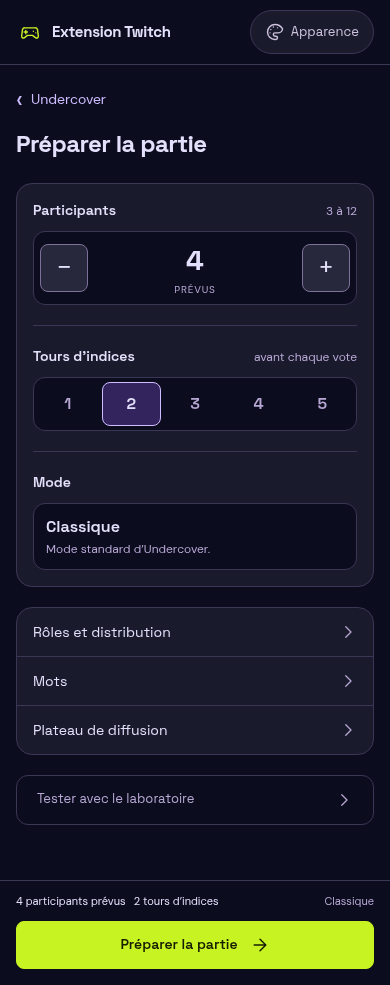
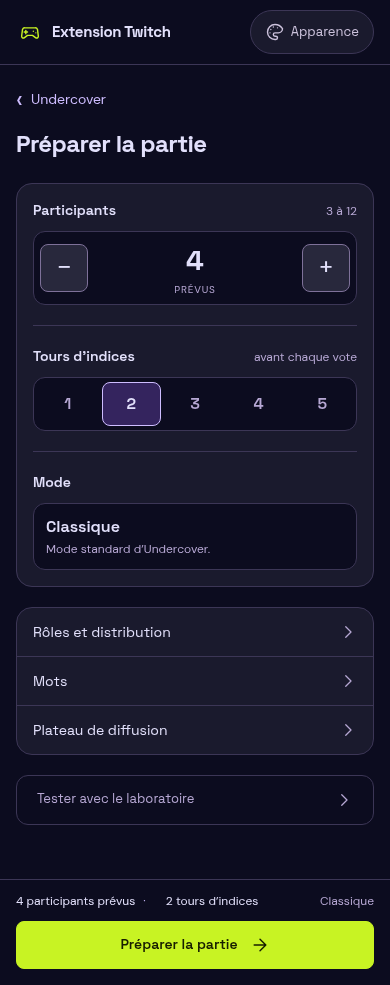
docs(ux): record Block 2 validation and implementation captures

diff --git a/docs/ux/redesign/PREPARE-UNDERCOVER-IMPLEMENTATION.md b/docs/ux/redesign/PREPARE-UNDERCOVER-IMPLEMENTATION.md
@@ -80,7 +80,35 @@ les captures avec Stitch. Le thème privé par défaut existant n’est pas chan
 
 ## Vérifications
 
-Le bilan chiffré est consigné après les exécutions dans `../pipeline/block-2.json`.
+**`npm run check` réussi** : 197 tests unitaires/intégration (24 fichiers), formatage,
+TypeScript strict et build de production. **238 parcours Chromium réussis**, dont
+20 nouveaux pour la préparation, sur quatre formats lorsque prévus par les suites.
+Détail reproductible dans [le bilan chiffré](../pipeline/block-2.json).
+
+| Suite                              | Parcours réussis |
+| ---------------------------------- | ---------------: |
+| Préparation (nouvelle)             |               20 |
+| Sessions et produit                |               42 |
+| Accueil                            |               16 |
+| Salon et joueurs                   |               16 |
+| Thèmes et six expériences          |               12 |
+| Gameplay Undercover                |               12 |
+| Layout Undercover                  |                6 |
+| Aperçu d’émission / OBS navigateur |                9 |
+| Design system et dialogues         |               12 |
+| B5 Régie                           |                6 |
+| B6 Diffusion                       |                9 |
+| B7 Laboratoire                     |               12 |
+| Maintenance et anciennes parties   |               60 |
+| QA développement                   |                6 |
+
+La première passe complète a porté sur `0ffcba8`. Après les ajustements limités au
+récapitulatif, aux cibles et aux helpers de navigation, les suites préparation,
+layout, thèmes, maintenance et QA ont été relancées sur l’application finale
+`8d15e64` et ses helpers corrigés, puis `npm run check` a été réexécuté. Le code
+applicatif n’a pas changé ensuite. Les deux échecs initiaux (attente de navigation
+et accès au récapitulatif déplacé) et le helper de maintenance sont corrigés ; aucune
+assertion de sécurité ou de gameplay n’a été retirée.
 Les nouveaux scénarios vérifient les options persistées, les thèmes indépendants,
 le vrai parcours préparation → salon → régie → distribution, les invitations sans
 capacité liée à la prévision, la séparation QA, les refus, le stockage indisponible,

diff --git a/docs/TEST-PREPARE-UNDERCOVER.md b/docs/TEST-PREPARE-UNDERCOVER.md
@@ -2,9 +2,15 @@
 
 ## Ouvrir l’application
 
-Node 24 et npm 11 sont nécessaires. Sur le Mac, dans le dossier du dépôt :
+Node 24 et npm 11 sont nécessaires. Sur le Mac, si votre dépôt est toujours dans
+`~/extension-twitch-studio-4b`, récupérez la branche dédiée (arrêtez d’abord le serveur
+avec Ctrl+C dans son terminal) :
 
 ```sh
+cd ~/extension-twitch-studio-4b
+git fetch origin
+git switch ux/block-2-prepare-undercover
+git pull --ff-only
 nvm use 24
 npm ci
 npm run dev:lan
